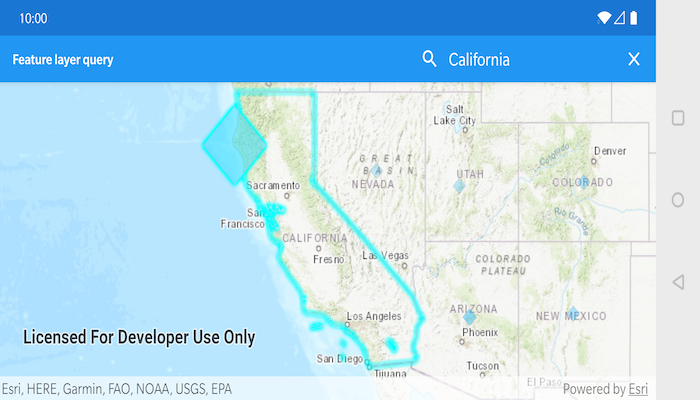
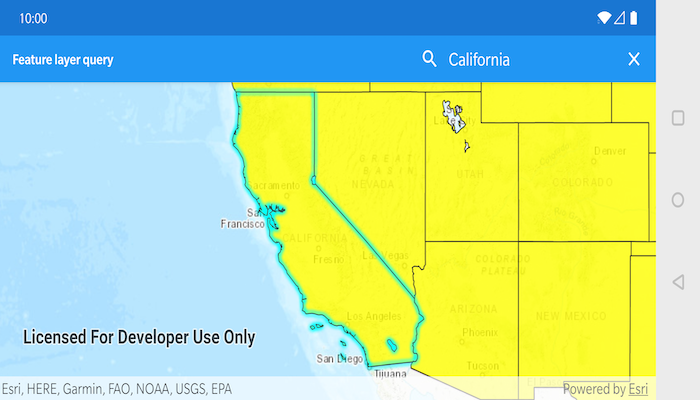
override the renderer to not show population data, but rather a yellow fill and black outline per state. new screenshot. comments

diff --git a/kotlin/feature-layer-query/src/main/java/com/esri/arcgisruntime/sample/featurelayerquery/MainActivity.kt b/kotlin/feature-layer-query/src/main/java/com/esri/arcgisruntime/sample/featurelayerquery/MainActivity.kt
@@ -21,6 +21,7 @@ import com.esri.arcgisruntime.data.ServiceFeatureTable
 import android.app.SearchManager
 import android.content.Context
 import android.content.Intent
+import android.graphics.Color
 import android.os.Bundle
 import android.util.Log
 import android.view.Menu
@@ -36,6 +37,9 @@ import com.esri.arcgisruntime.layers.FeatureLayer
 import com.esri.arcgisruntime.mapping.ArcGISMap
 import com.esri.arcgisruntime.mapping.Basemap
 import com.esri.arcgisruntime.mapping.Viewpoint
+import com.esri.arcgisruntime.symbology.SimpleFillSymbol
+import com.esri.arcgisruntime.symbology.SimpleLineSymbol
+import com.esri.arcgisruntime.symbology.SimpleRenderer
 import kotlinx.android.synthetic.main.activity_main.*
 import java.lang.Exception
 import java.util.Locale
@@ -46,10 +50,12 @@ class MainActivity : AppCompatActivity() {
     private val TAG: String = MainActivity::class.java.simpleName
   }
 
+  // create a service feature table and a feature layer from it
   private val serviceFeatureTable: ServiceFeatureTable by lazy {
     ServiceFeatureTable(getString(R.string.us_daytime_population_url))
   }
 
+  // create the feature layer using the service feature table
   private val featureLayer: FeatureLayer by lazy {
     FeatureLayer(serviceFeatureTable)
   }
@@ -58,13 +64,21 @@ class MainActivity : AppCompatActivity() {
     super.onCreate(savedInstanceState)
     setContentView(R.layout.activity_main)
 
+    val lineSymbol = SimpleLineSymbol(SimpleLineSymbol.Style.SOLID, Color.BLACK, 1.0f)
+    val fillSymbol = SimpleFillSymbol(SimpleFillSymbol.Style.SOLID, Color.YELLOW, lineSymbol)
+
     featureLayer.apply {
+      // override the renderer
+      renderer = SimpleRenderer(fillSymbol)
       opacity = 0.8f
       maxScale = 10000.0
     }
 
+    // create a map with the topographic basemap and add it to the basemap
     mapView.map = ArcGISMap(Basemap.createTopographic()).apply {
+      // add the layer to the map
       operationalLayers.add(featureLayer)
+      // zoom to a view point of the USA
       initialViewpoint =
         Viewpoint(Point(-11000000.0, 5000000.0, SpatialReferences.getWebMercator()), 100000000.0)
     }
